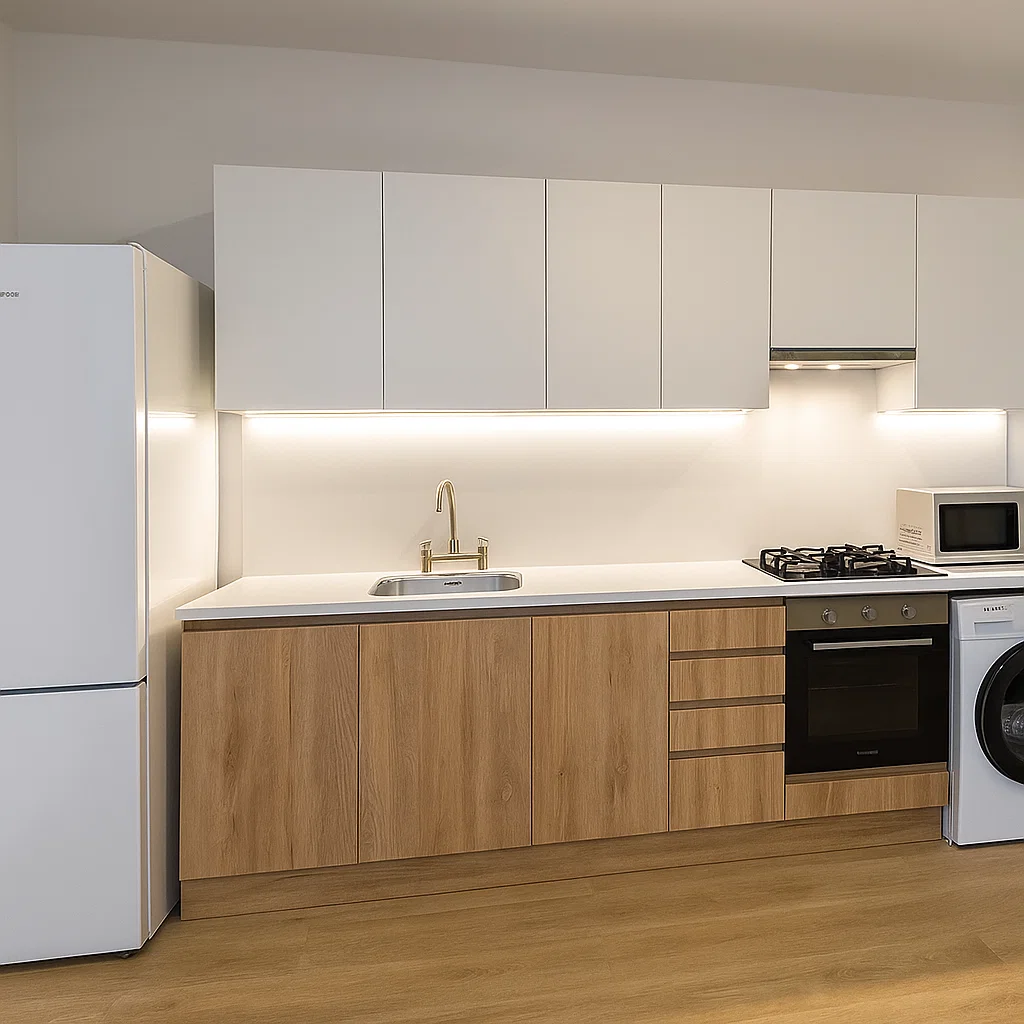
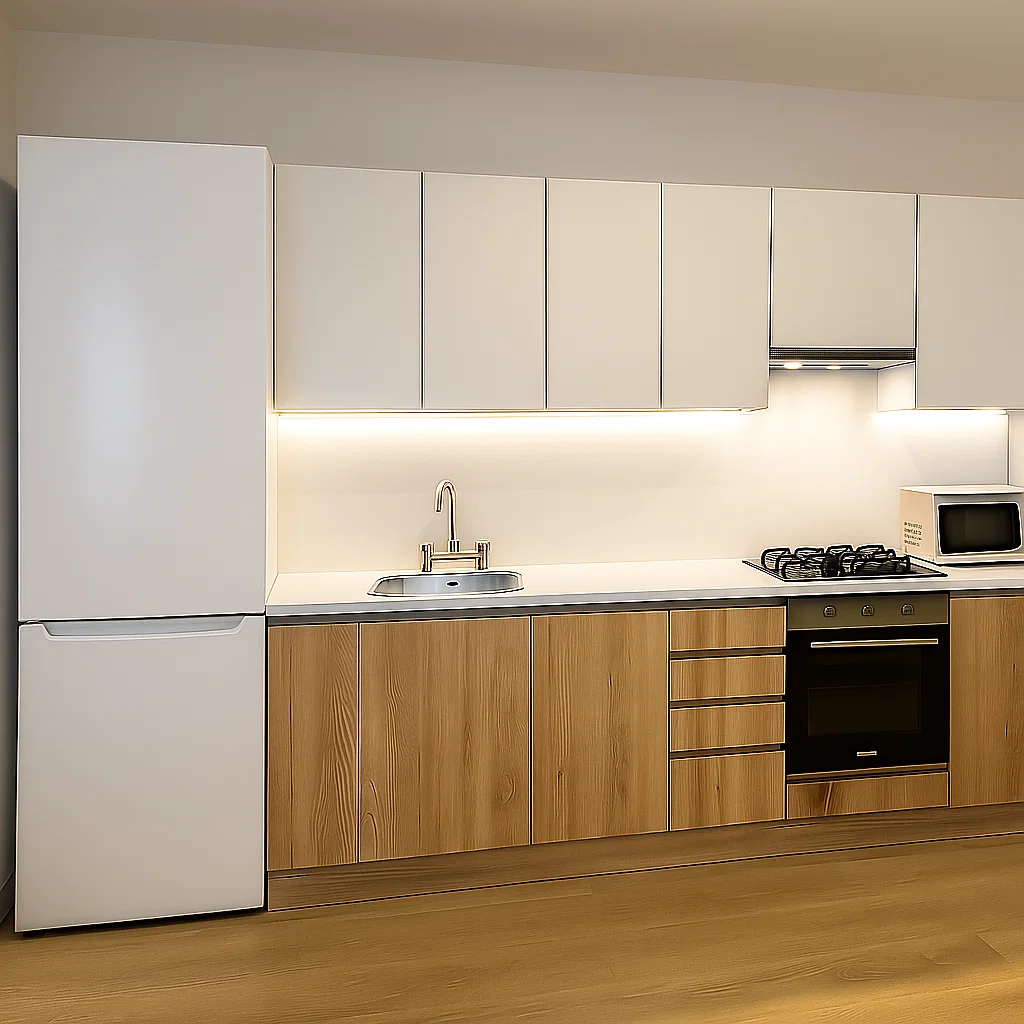
Add IMG_0304_new.webp and update IMG_0298_new.webp visualization
- Add new IMG_0304_new.webp bathroom detail visualization
- Update IMG_0298_new.webp kitchen visualization with improved version
- Gallery now features 10 total visualization images
- Updated documentation to reflect 34 total images

🤖 Generated with [Claude Code](https://claude.ai/code)

diff --git a/src/pages/Index.tsx b/src/pages/Index.tsx
@@ -32,6 +32,7 @@ const galleryImages = [
   { src: "/images/IMG_0285_new.webp", alt: "Druhá izba (vizualizácia)" },
   { src: "/images/IMG_0291_new.webp", alt: "Druhá kúpeľňa (vizualizácia)" },
   { src: "/images/IMG_0293_new.webp", alt: "Kuchynské spotrebiče (vizualizácia)" },
+  { src: "/images/IMG_0304_new.webp", alt: "Kúpeľňa - detail (vizualizácia)" },
   
   // Original apartment photos
   { src: "/images/IMG_0277.jpg", alt: "Interiér bytu - obývacia izba" },

diff --git a/CLAUDE.md b/CLAUDE.md
@@ -18,7 +18,7 @@ Modern React-based apartment listing website built using the **padpal-finder** t
 ```
 /Users/patrik/Desktop/Stuff/Miletičova 2025/Web/
 ├── public/
-│   ├── images/               # 33 apartment photos + floor plan + visualizations
+│   ├── images/               # 34 apartment photos + floor plan + visualizations
 │   │   ├── IMG_0277_new.webp # Living room visualization (main preview)
 │   │   ├── IMG_0288_new.webp # Balcony visualization
 │   │   ├── IMG_0295_new.webp # Bedroom visualization
@@ -28,6 +28,7 @@ Modern React-based apartment listing website built using the **padpal-finder** t
 │   │   ├── IMG_0285_new.webp # Second room visualization
 │   │   ├── IMG_0291_new.webp # Second bathroom visualization
 │   │   ├── IMG_0293_new.webp # Kitchen appliances visualization
+│   │   ├── IMG_0304_new.webp # Bathroom detail visualization
 │   │   ├── IMG_0277.jpg     # Original living room photos
 │   │   ├── IMG_0279.jpg     # Kitchen photos  
 │   │   ├── IMG_0281.jpg     # Bedroom photos
@@ -66,8 +67,8 @@ Modern React-based apartment listing website built using the **padpal-finder** t
 - **Features**: Renovated, gas heating, balcony, free parking
 
 ### 🖼 Photo Gallery
-- **33 high-quality images** including:
-  - **9 new visualization images** (WebP format for performance)
+- **34 high-quality images** including:
+  - **10 new visualization images** (WebP format for performance)
   - **24 original apartment photos**
   - Living room and kitchen areas
   - All 4 bedrooms
@@ -174,7 +175,7 @@ npm run lint        # Run ESLint
 ## Recent Updates
 
 ### Gallery Enhancements (Latest)
-- ✅ **Added 9 visualization images** in WebP format for better performance (5 new images added recently)
+- ✅ **Added 10 visualization images** in WebP format for better performance (6 new images added recently)
 - ✅ **Fixed lightbox sizing issues** - consistent layout regardless of image dimensions
 - ✅ **Enhanced navigation** - keyboard arrows and touch/swipe support
 - ✅ **Improved UX** - smooth transitions and responsive controls
